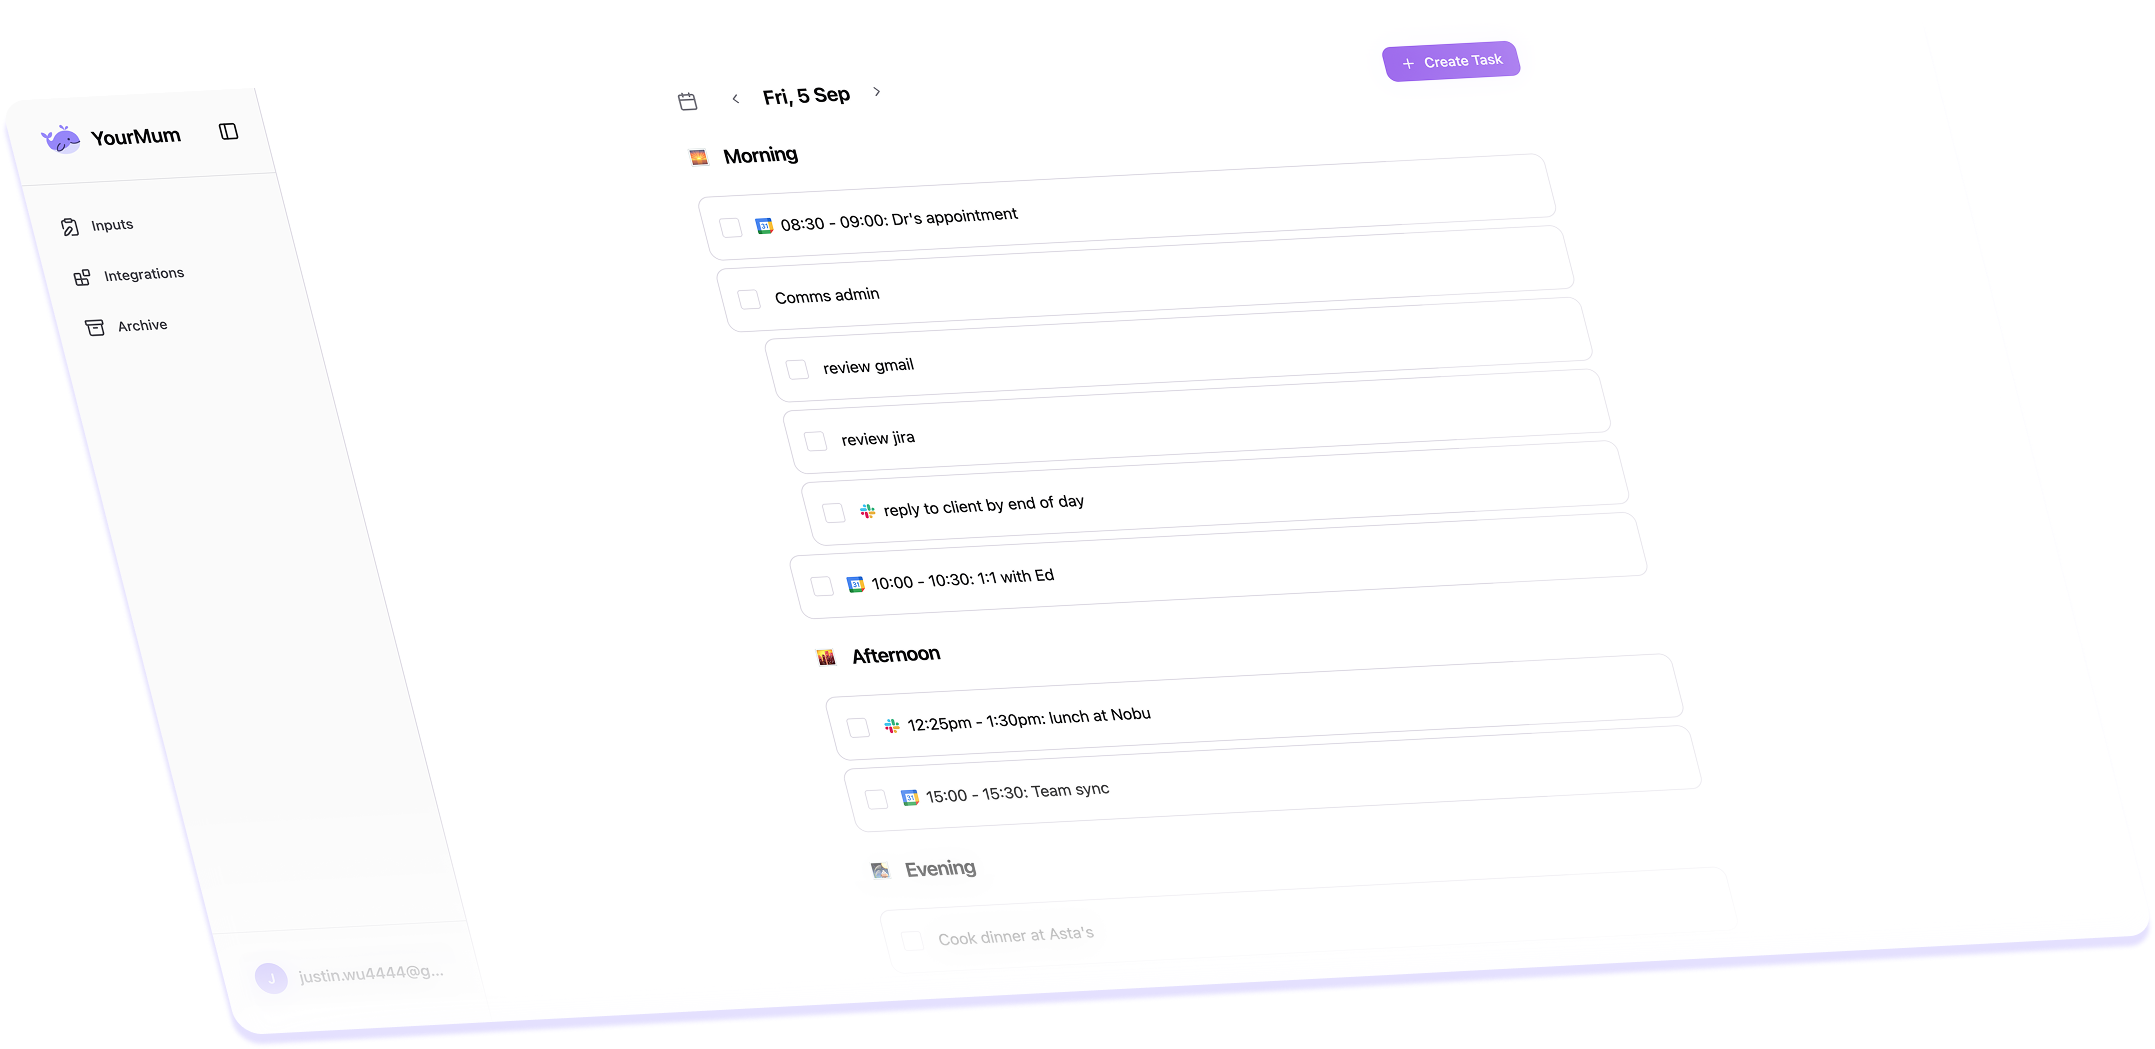
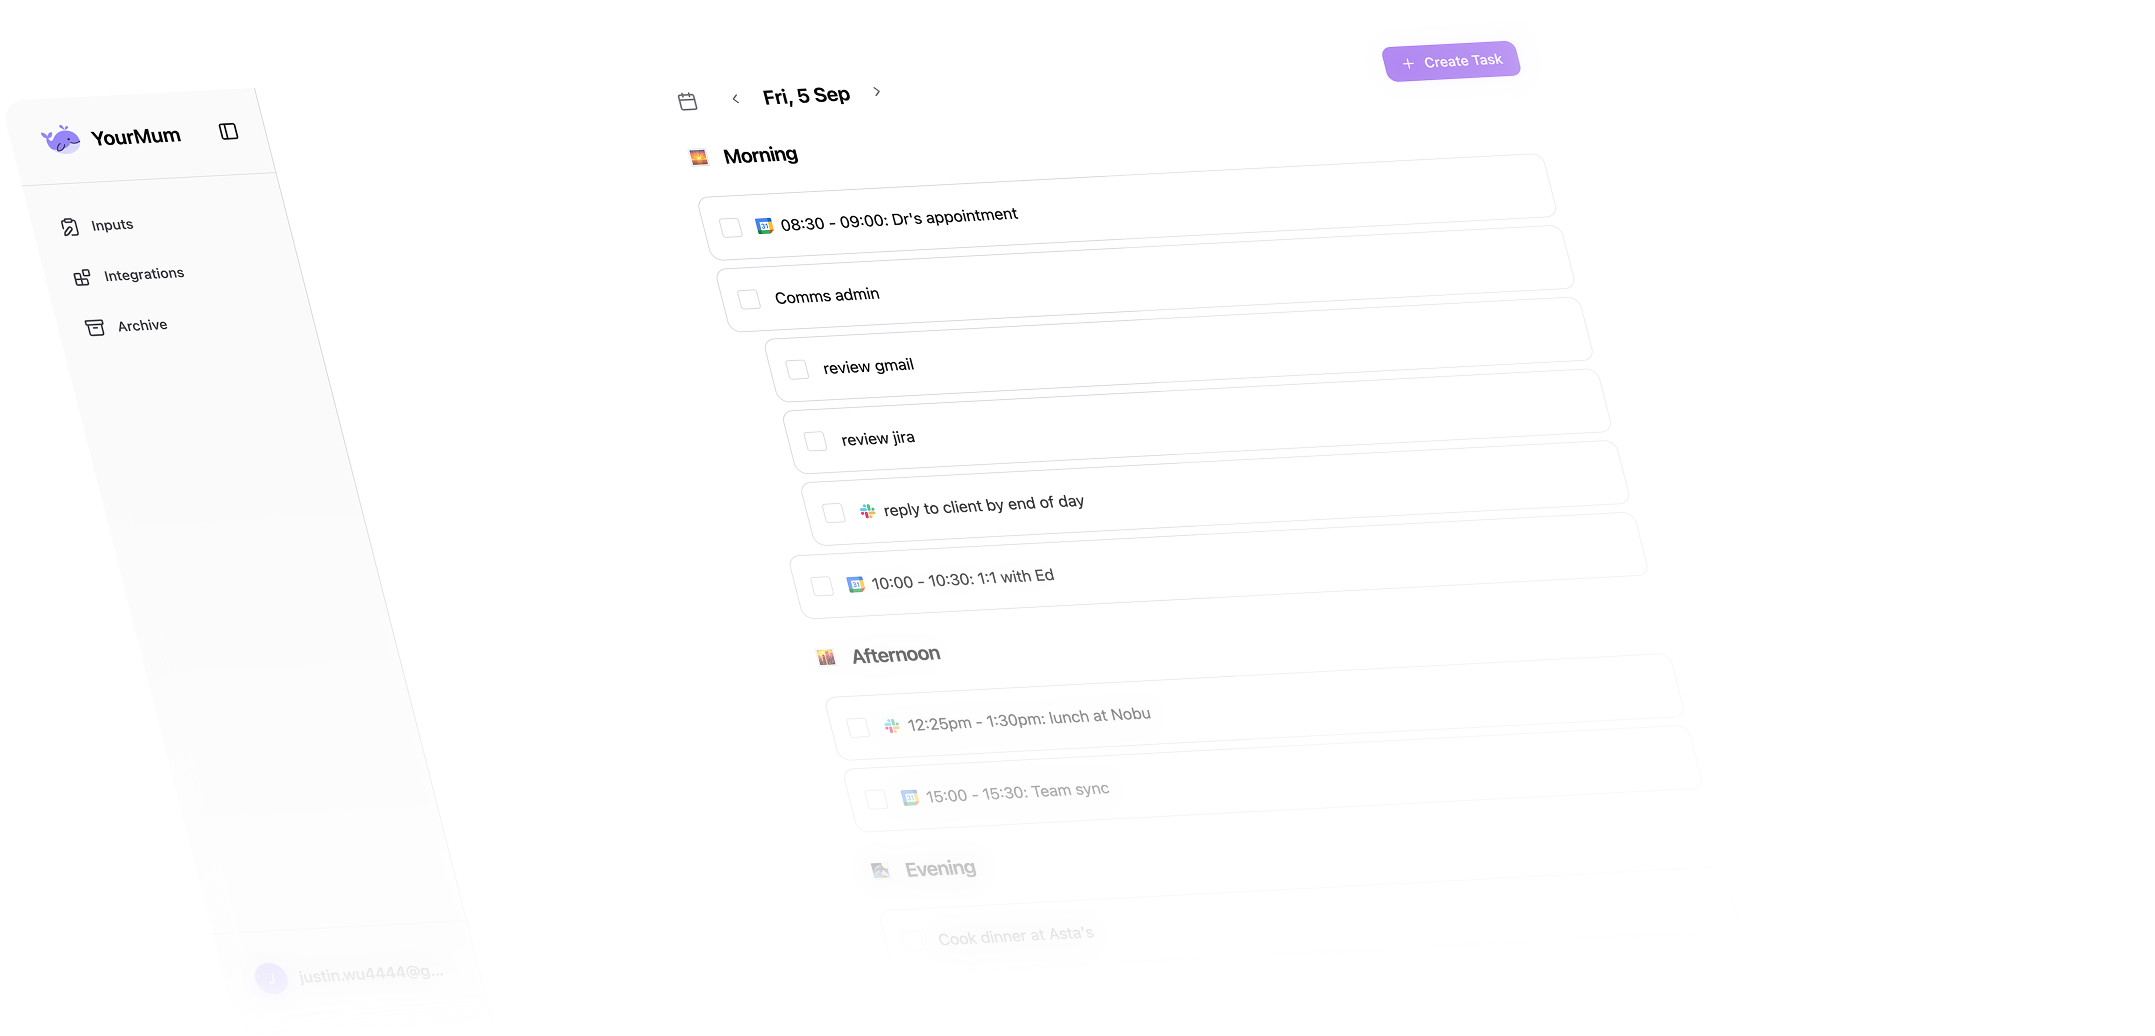
added linear fade from hero to next section

diff --git a/frontend/components/parts/home/Hero.tsx b/frontend/components/parts/home/Hero.tsx
@@ -4,12 +4,15 @@ import Image from 'next/image'
 
 const Hero = ({ handleGetStarted }: WithHandleGetStarted) => {
   return (
-    <section className="relative min-h-[120vh] flex flex-col items-center justify-start px-4 pt-24 pb-0 overflow-hidden">
+    <section className="relative min-h-[150vh] flex flex-col items-center justify-start px-4 pt-24 pb-20">
       {/* Multiple gradient background layers */}
       <div className="absolute inset-0 bg-gradient-to-br from-purple-50 via-lavender-50 to-indigo-50"></div>
       <div className="absolute inset-0 bg-gradient-radial from-purple-100/30 via-transparent to-transparent"></div>
       <div className="absolute top-1/4 left-1/4 w-96 h-96 bg-purple-200/20 rounded-full blur-3xl"></div>
       <div className="absolute bottom-1/4 right-1/4 w-80 h-80 bg-indigo-200/20 rounded-full blur-3xl"></div>
+      
+      {/* Seamless fade to next section */}
+      <div className="absolute bottom-0 left-0 right-0 h-40 bg-gradient-to-b from-transparent via-white/30 to-white"></div>
       
       <div className="relative z-10 max-w-4xl mx-auto text-center space-y-8 mt-16">
         {/* H1 Title */}
@@ -42,7 +45,7 @@ const Hero = ({ handleGetStarted }: WithHandleGetStarted) => {
         </div>
 
         {/* Dashboard Image - 2x scale and responsive positioning */}
-        <div className="opacity-0 translate-y-8 animate-fade-in-up mt-32 md:mt-40" style={{ animationDelay: '0.4s' }}>
+        <div className="opacity-0 translate-y-8 animate-fade-in-up mt-32 md:mt-40 mb-20" style={{ animationDelay: '0.4s' }}>
           <div className="relative w-full max-w-6xl mx-auto transform md:scale-150 transform-origin-top">
             <Image
               src="/images/home/Dashboard Edited.png"
